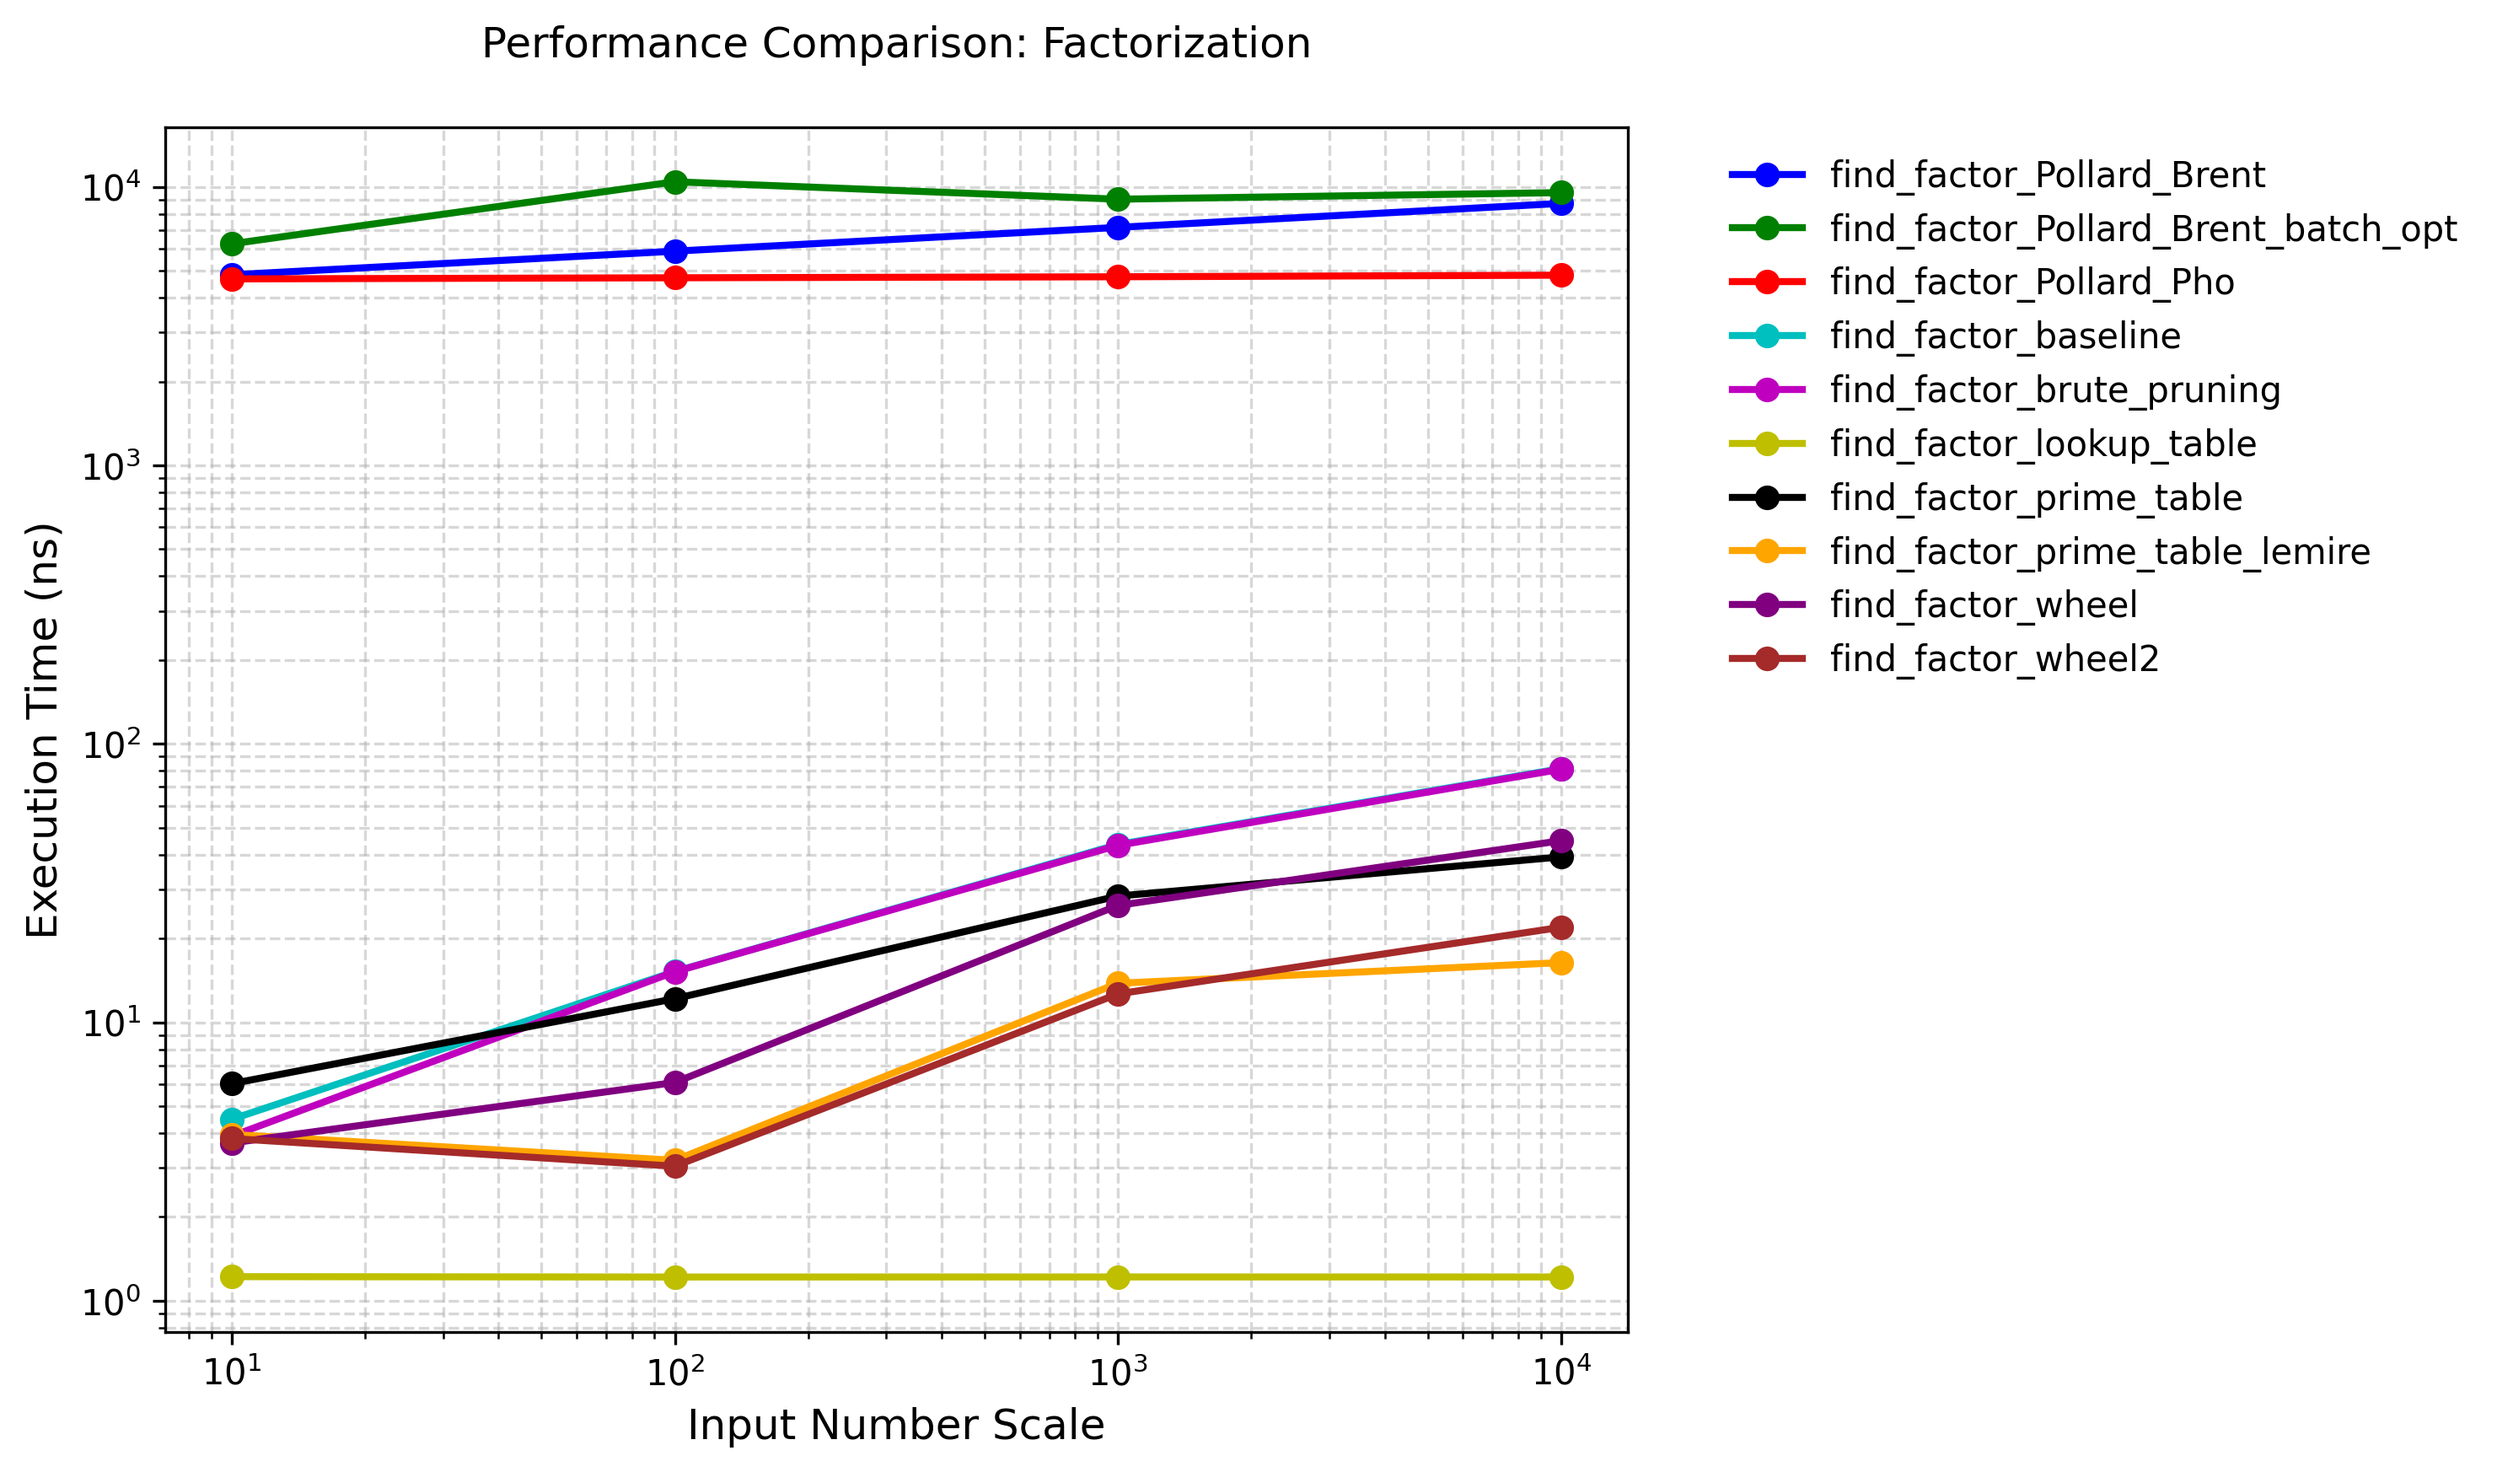
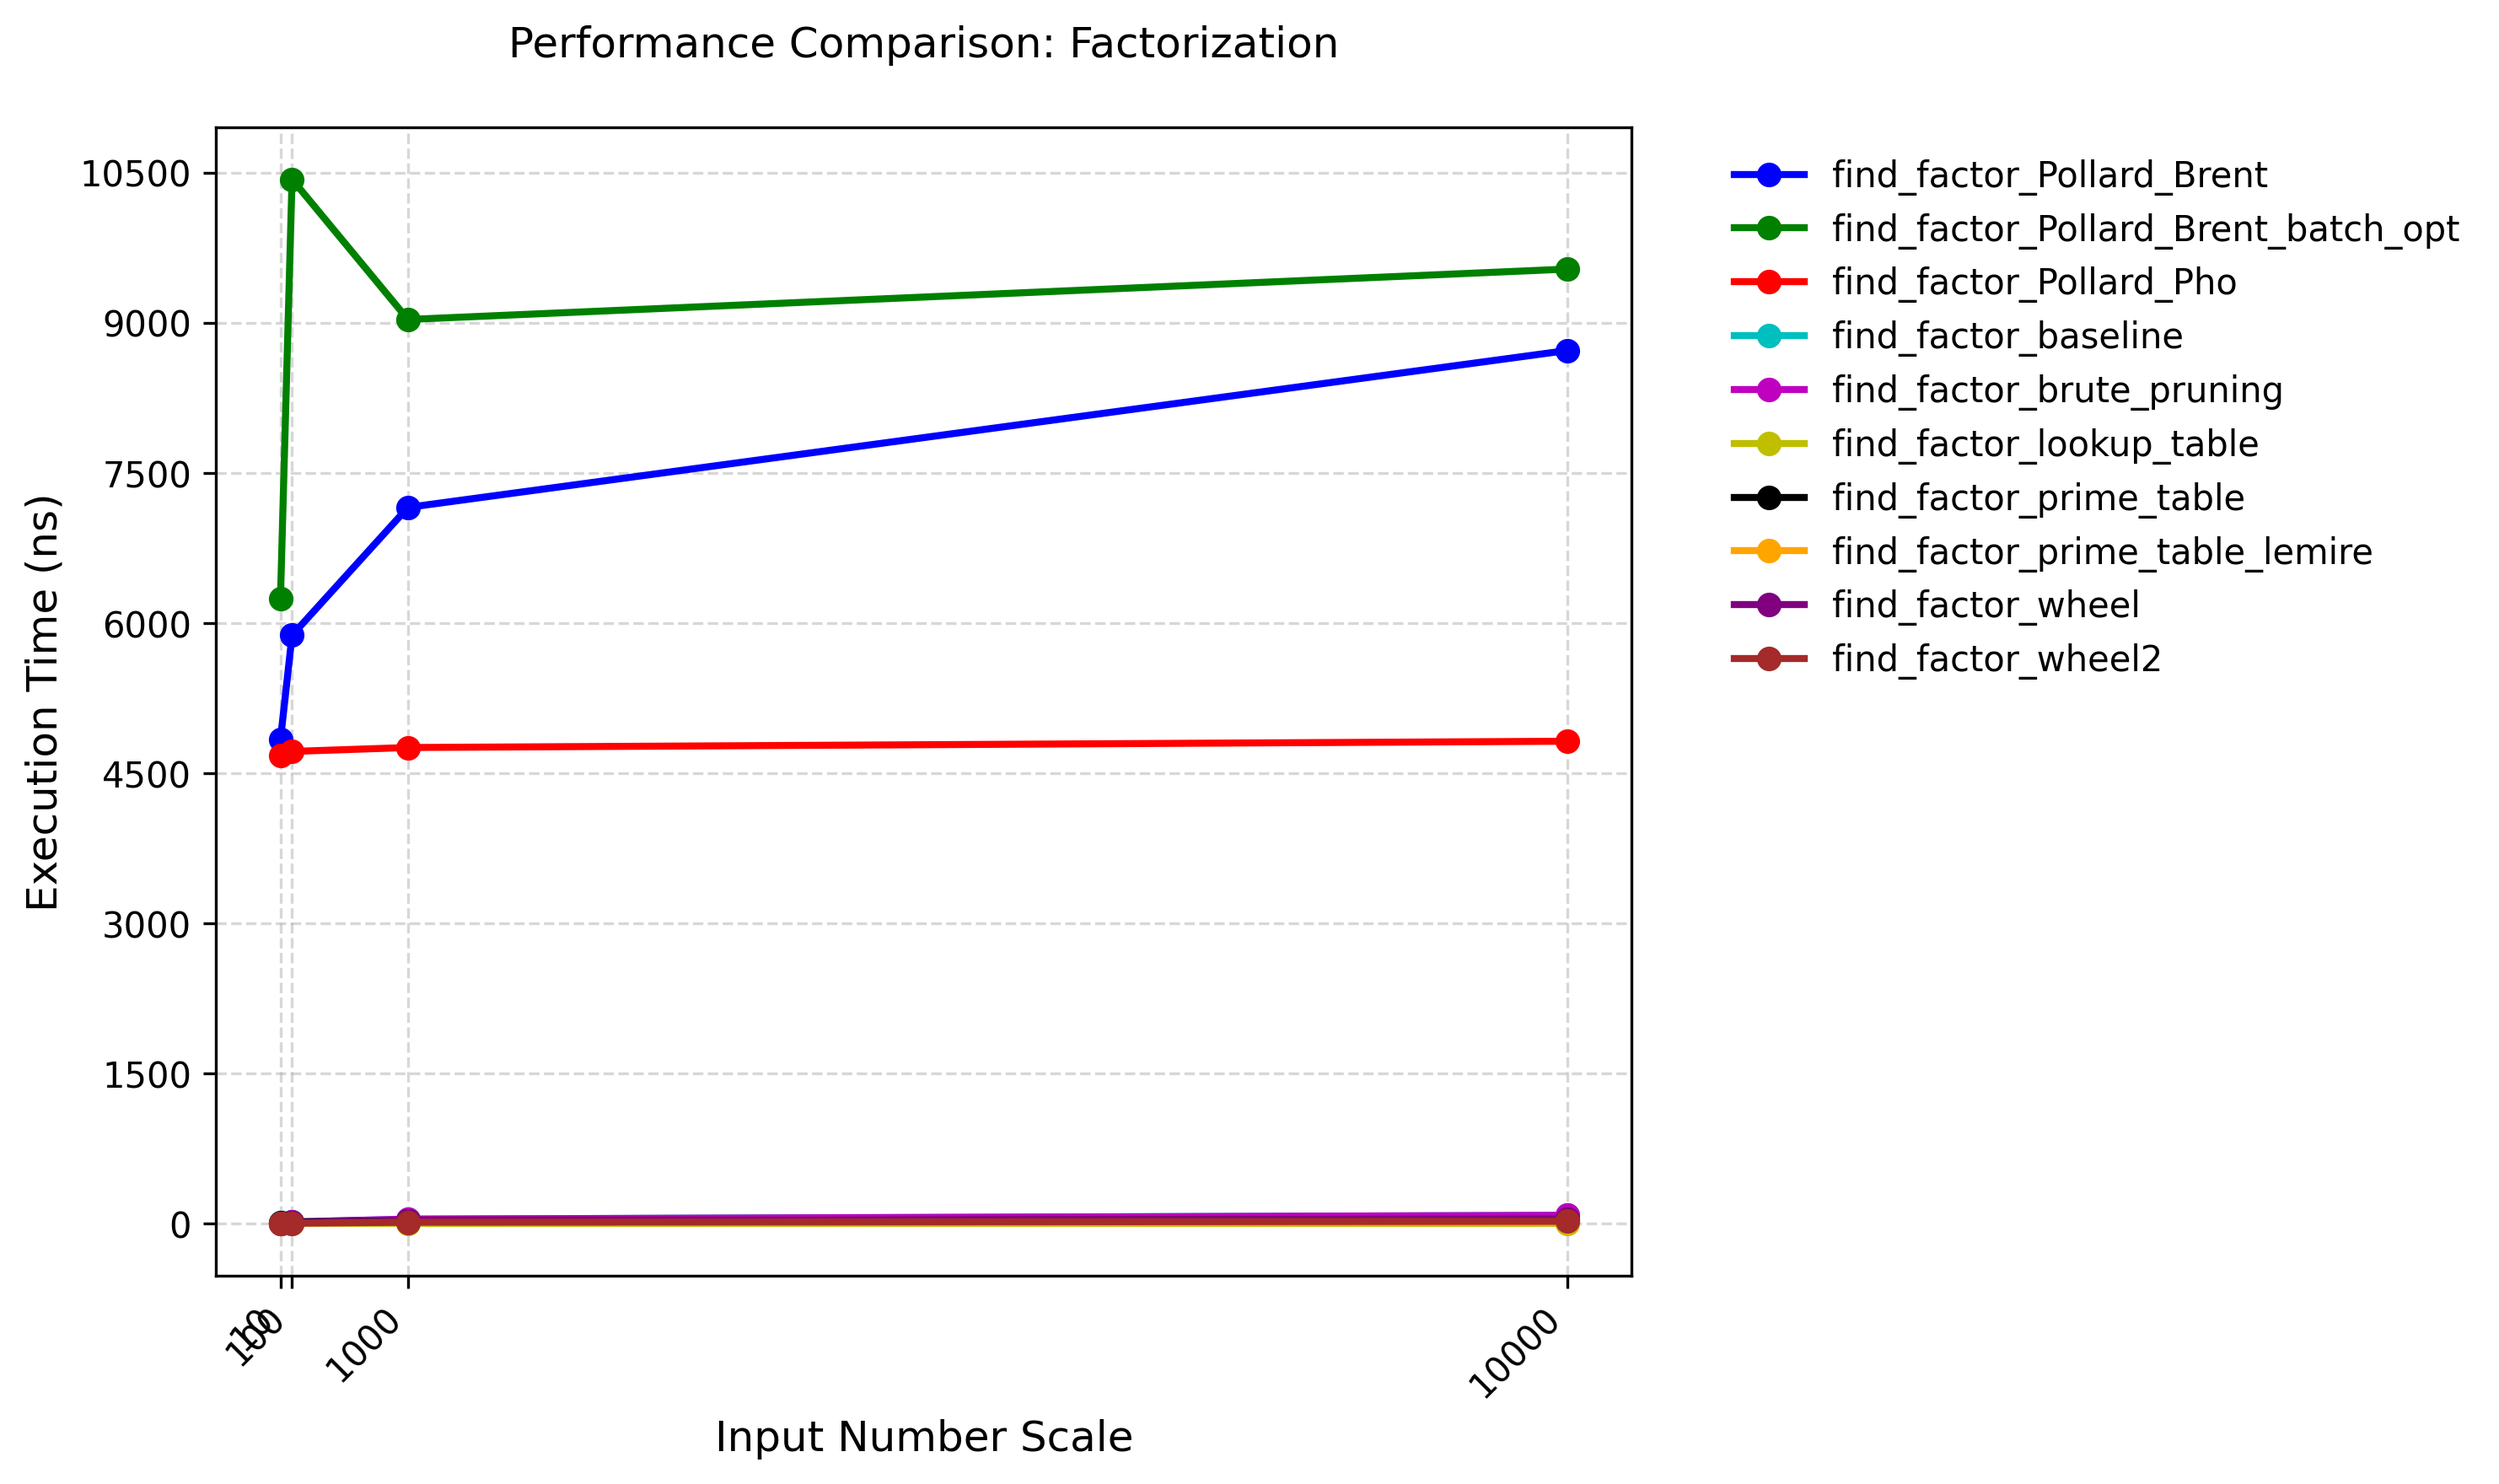
Modify the plot script a little bit. Test the performance result for different versions of matrix multiplication. The next step is to do profiling to see the reason for the performance gaps. And maybe look into the assembly code.

Changed region(s): [[0.0, 0.0, 0.6523, 0.9278], [0.6833, 0.0928, 0.9318, 0.4639], [0.2795, 0.9588, 0.4659, 0.9897]]

diff --git a/utils/plot.py b/utils/plot.py
@@ -2,62 +2,53 @@ import json
 import matplotlib.pyplot as plt
 import argparse
 import numpy as np
+from matplotlib.ticker import ScalarFormatter
 
-# Expanded list of distinct, readable colors
+# Usage:
+# Original log scale version
+# python3 plot.py input.json output.png
+
+# Modified linear scale version
+# python3 plot.py input.json output.png --linear
+
+# Common configuration and functions
 DISTINCT_COLORS = [
-    'b',  # blue
-    'g',  # green
-    'r',  # red
-    'c',  # cyan
-    'm',  # magenta
-    'y',  # yellow
-    'k',  # black
-    'orange',
-    'purple',
-    'brown',
-    'indigo',
-    'teal',
-    'violet',
-    'olive',
-    'turquoise',
-    'chocolate',
-    'gold',
-    'salmon'
+    'b', 'g', 'r', 'c', 'm', 'y', 'k', 'orange',
+    'purple', 'brown', 'indigo', 'teal', 'violet',
+    'olive', 'turquoise', 'chocolate', 'gold', 'salmon'
 ]
 
 def load_data(file_path):
+    """Load JSON data from file"""
     with open(file_path, 'r') as f:
         return json.load(f)
 
 def prepare_data(data):
+    """Extract input parameters, result names and values from data"""
     input_params = data['input_params']
     result = data['result']
     return input_params, list(result.keys()), list(result.values())
 
 def generate_distinct_colors(n):
-    """Generate distinct colors for the plot."""
+    """Generate distinct colors for the plot"""
     if n <= len(DISTINCT_COLORS):
         return DISTINCT_COLORS[:n]
-    else:
-        # If more colors are needed, cycle through the DISTINCT_COLORS list
-        return [DISTINCT_COLORS[i % len(DISTINCT_COLORS)] for i in range(n)]
+    return [DISTINCT_COLORS[i % len(DISTINCT_COLORS)] for i in range(n)]
 
-def plot_data(data, input_params, result_names, result_values, output_image_path):
-    plt.figure(figsize=(12, 6))
-    
-    # Determine how many results there are
-    num_results = len(result_values)
-    colors = generate_distinct_colors(num_results)
-
+def setup_common_plot_elements(data, ax, input_params, result_names, result_values):
+    """Configure elements common to both plot versions"""
     # Plot each result with its unique color
+    colors = generate_distinct_colors(len(result_values))
     for i, result in enumerate(result_values):
-        plt.plot(input_params, result, label=result_names[i], marker='o', linewidth=2, color=colors[i])
-
-    plt.xlabel(data['input_param_meaning'], fontsize=12)
-    plt.ylabel(f"Execution Time ({data['unit']})", fontsize=12)
-    plt.title(f"Performance Comparison: {data['test_name']}", pad=20)
+        ax.plot(input_params, result, label=result_names[i], marker='o', linewidth=2, color=colors[i])
     
-    plt.legend(
+    # Set common labels and title
+    ax.set_xlabel(data['input_param_meaning'], fontsize=12)
+    ax.set_ylabel(f"Execution Time ({data['unit']})", fontsize=12)
+    ax.set_title(f"Performance Comparison: {data['test_name']}", pad=20)
+    
+    # Add legend
+    ax.legend(
         bbox_to_anchor=(1.05, 1),
         loc='upper left',
         fontsize=10,
@@ -65,21 +56,61 @@ def plot_data(data, input_params, result_names, result_values, output_image_path
         ncol=1
     )
     
-    plt.xscale('log')
-    plt.yscale('log')
-    plt.grid(True, which="both", ls="--", alpha=0.5)
-    plt.tight_layout(rect=[0, 0, 0.85, 1])
+    # Add grid
+    ax.grid(True, which="both", ls="--", alpha=0.5)
 
-    plt.savefig(output_image_path, bbox_inches='tight', dpi=300)
-    plt.close()
+def create_log_scale_plot(data, input_params, result_names, result_values):
+    """Create plot with logarithmic scale (original version)"""
+    fig, ax = plt.subplots(figsize=(12, 6))
+    setup_common_plot_elements(data, ax, input_params, result_names, result_values)
+    
+    # Set logarithmic scale
+    ax.set_xscale('log')
+    ax.set_yscale('log')
+    
+    return fig
 
-def main(input_file, output_file):
+def create_linear_scale_plot(data, input_params, result_names, result_values):
+    """Create plot with linear scale and all x-axis labels (modified version)"""
+    fig, ax = plt.subplots(figsize=(12, 6))
+    setup_common_plot_elements(data, ax, input_params, result_names, result_values)
+    
+    # Set linear scale
+    ax.set_xscale('linear')
+    ax.set_yscale('linear')
+    
+    # Force ticks at every data point
+    ax.set_xticks(input_params)
+    ax.set_xticklabels([str(x) for x in input_params], rotation=45, ha='right')
+    
+    # Auto-adjust y-axis ticks
+    ax.yaxis.set_major_locator(plt.MaxNLocator(integer=False, prune=None))
+    
+    return fig
+
+def plot_data(data, input_params, result_names, result_values, output_image_path, linear_scale=False):
+    """Create and save the plot using specified scale type"""
+    if linear_scale:
+        fig = create_linear_scale_plot(data, input_params, result_names, result_values)
+    else:
+        fig = create_log_scale_plot(data, input_params, result_names, result_values)
+    
+    # Adjust layout and save
+    fig.tight_layout(rect=[0, 0, 0.85, 1])
+    fig.savefig(output_image_path, bbox_inches='tight', dpi=300)
+    plt.close(fig)
+
+def main(input_file, output_file, linear_scale=False):
+    """Main function to load data and generate plot"""
     data = load_data(input_file)
-    plot_data(data, *prepare_data(data), output_file)
+    plot_data(data, *prepare_data(data), output_file, linear_scale)
 
 if __name__ == "__main__":
-    parser = argparse.ArgumentParser()
-    parser.add_argument("input_file")
-    parser.add_argument("output_file")
+    parser = argparse.ArgumentParser(description='Generate performance comparison plots.')
+    parser.add_argument("input_file", help="Path to input JSON file")
+    parser.add_argument("output_file", help="Path to save output image")
+    parser.add_argument("--linear", action="store_true", 
+                        help="Use linear scale with all x-axis labels (default: log scale)")
+    
     args = parser.parse_args()
-    main(args.input_file, args.output_file)
+    main(args.input_file, args.output_file, args.linear)

diff --git a/factorization/README.md b/factorization/README.md
@@ -18,7 +18,7 @@ Use the product of two prime numbers to test the functions.
 
 ### Testing Result
 
-<img src="../images/factorization_result.png" alt="Factorization" width="850" height="auto">
+<img src="../images/factorization_result_old.png" alt="Factorization" width="850" height="auto">
 
 Test result data is located at [factorization_result.json](./factorization_result.json).
 

diff --git a/prefix_sum/README.md b/prefix_sum/README.md
@@ -33,7 +33,7 @@ Therefore we can do block processing to mitigate that. We can assign a block siz
 
 ### Test Results
 
-<img src="../images/prefix_sum_result.png" alt="PrefixSum" width="850" height="auto">
+<img src="../images/prefix_sum_result_old.png" alt="PrefixSum" width="850" height="auto">
 
 Test result data is located at [prefix_sum_result.json](./prefix_sum_result.json).
 

diff --git a/matmul/README.md b/matmul/README.md
@@ -1,7 +1,8 @@
 
-# Matrix Multiplication Algorithm
+# Matrix Multiplication Algorithm (Row Major)
 
 ## Optimizations
+
 
 
 ## Performance Test
@@ -20,6 +21,9 @@
 
 ### Test Results
 
+<img src="../images/matmul_result.png" alt="PrefixSum" width="850" height="auto">
+
+Test result data is located at [matmulresult.json](./matmul_result.json).
 
 ## References
 

diff --git a/arg_min/README.md b/arg_min/README.md
@@ -39,7 +39,7 @@ And in the code, I use some clever trick referenced from [argmin code](https://g
 
 ### Test Results
 
-<img src="../images/argmin_result.png" alt="Argmin" width="850" height="auto">
+<img src="../images/argmin_result_old.png" alt="Argmin" width="850" height="auto">
 
 Test result data is located at [argmin_result.json](./argmin_result.json).
 

diff --git a/conditional_sum/README.md b/conditional_sum/README.md
@@ -75,7 +75,7 @@ Here, if e < UpperBound, the generated mask is 0x11111111; otherwise, it is 0x00
 
 ### Test Results
 
-<img src="../images/sum_result.png" alt="Sum Result" width="850" height="auto">
+<img src="../images/sum_result_old.png" alt="Sum Result" width="850" height="auto">
 
 Test result data is located at [sum_result.json](./sum_result.json).
 

diff --git a/gcd/README.md b/gcd/README.md
@@ -18,7 +18,7 @@ For the optimizations performed, please check out the code and the comments in [
 
 ### Testing Result
 
-<img src="../images/gcd_result.png" alt="Gcd" width="850" height="auto">
+<img src="../images/gcd_result_old.png" alt="Gcd" width="850" height="auto">
 
 Test result data is located at [gcd_result.json](./gcd_result.json).
 

diff --git a/division/README.md b/division/README.md
@@ -16,7 +16,7 @@
 
 ### Testing Result
 
-<img src="../images/division_result.png" alt="Division" width="850" height="auto">
+<img src="../images/division_result_old.png" alt="Division" width="850" height="auto">
 
 Test result data is located at [division_result.json](./division_result.json).
 
